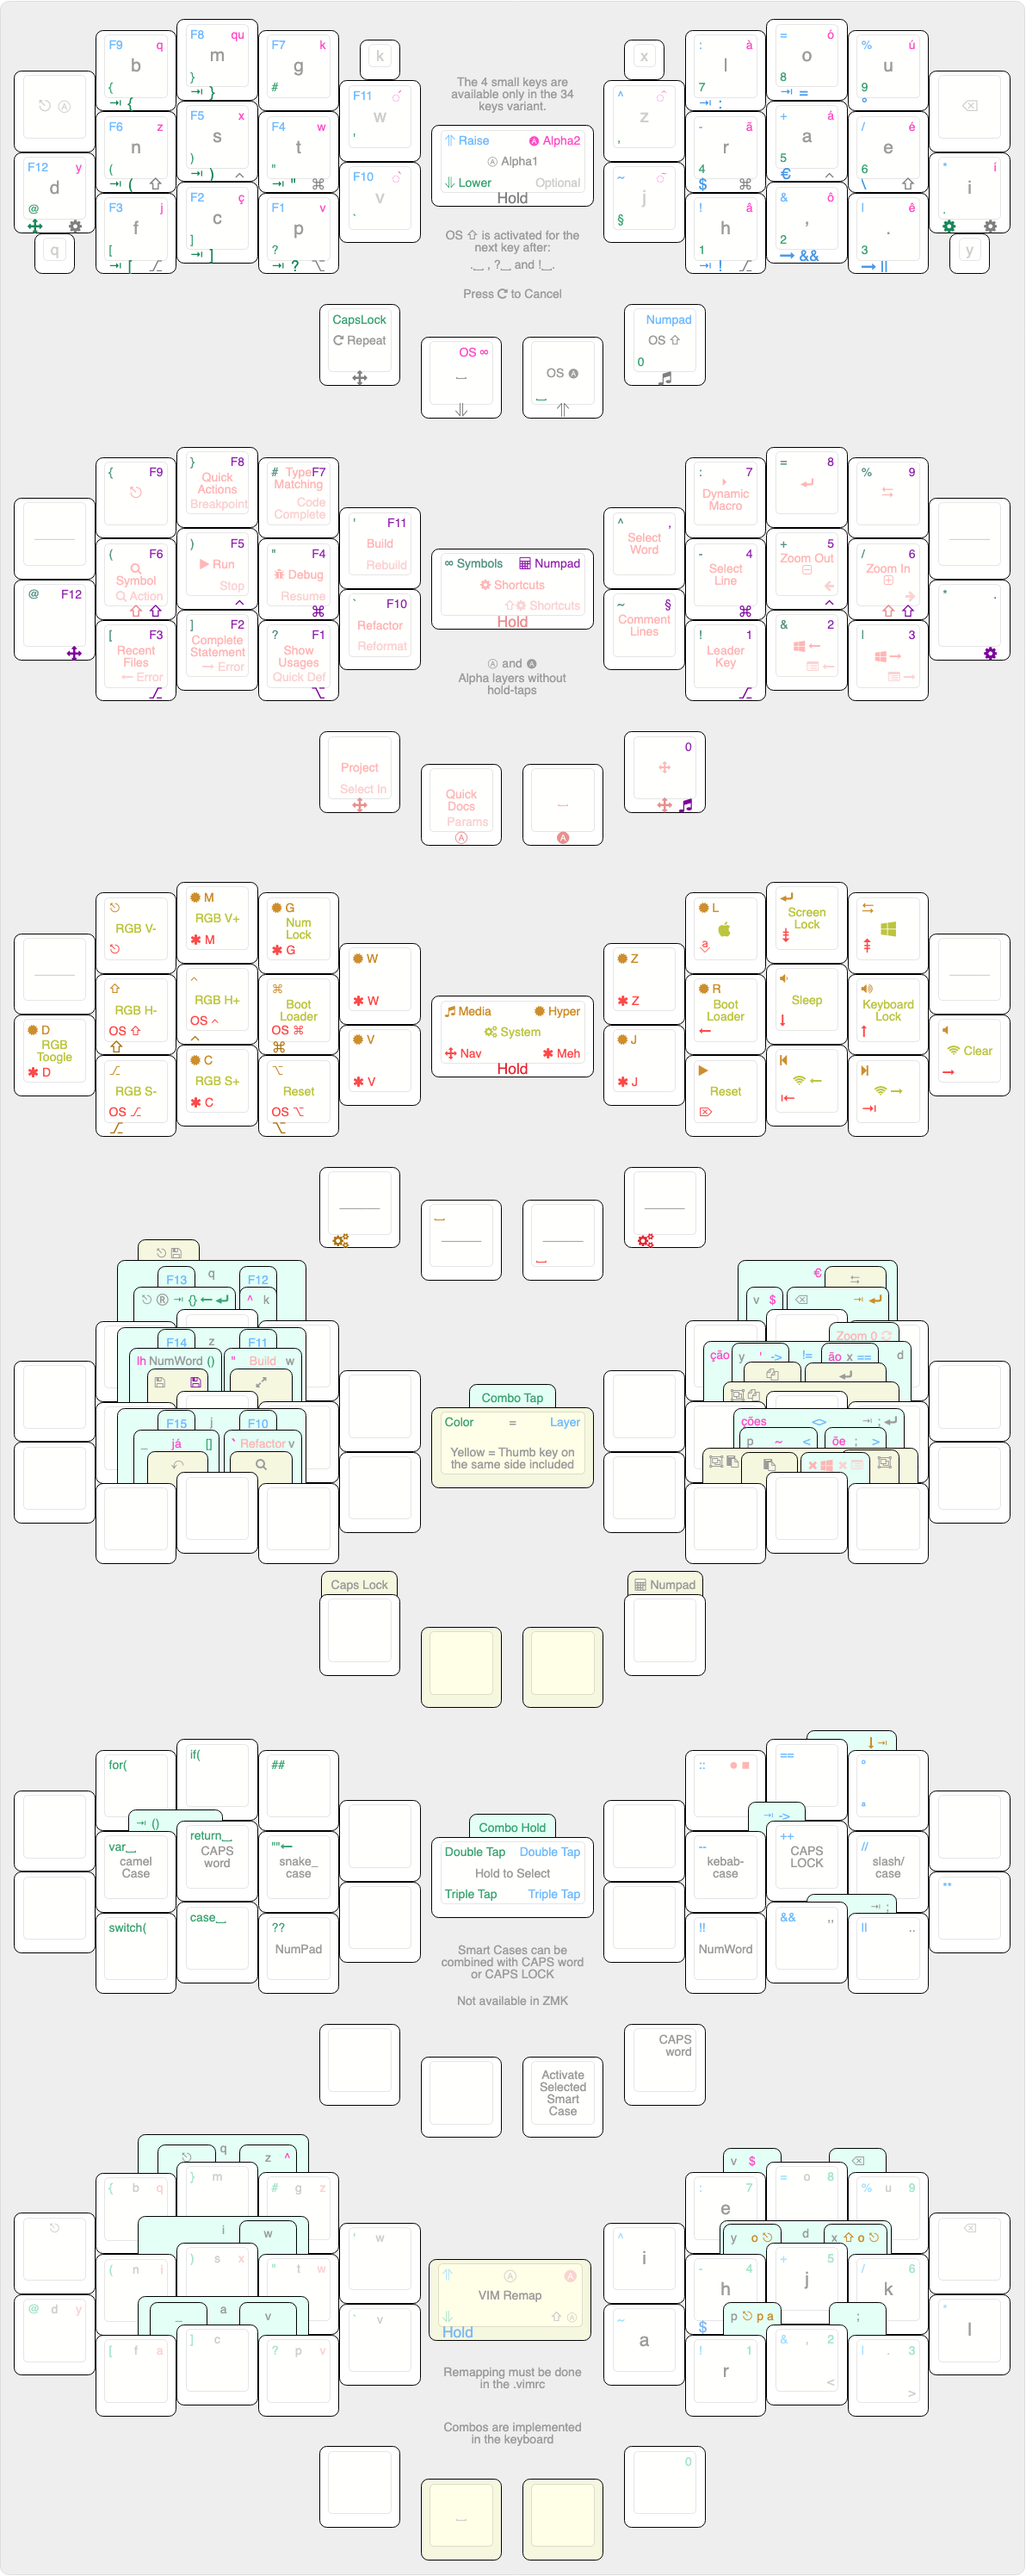
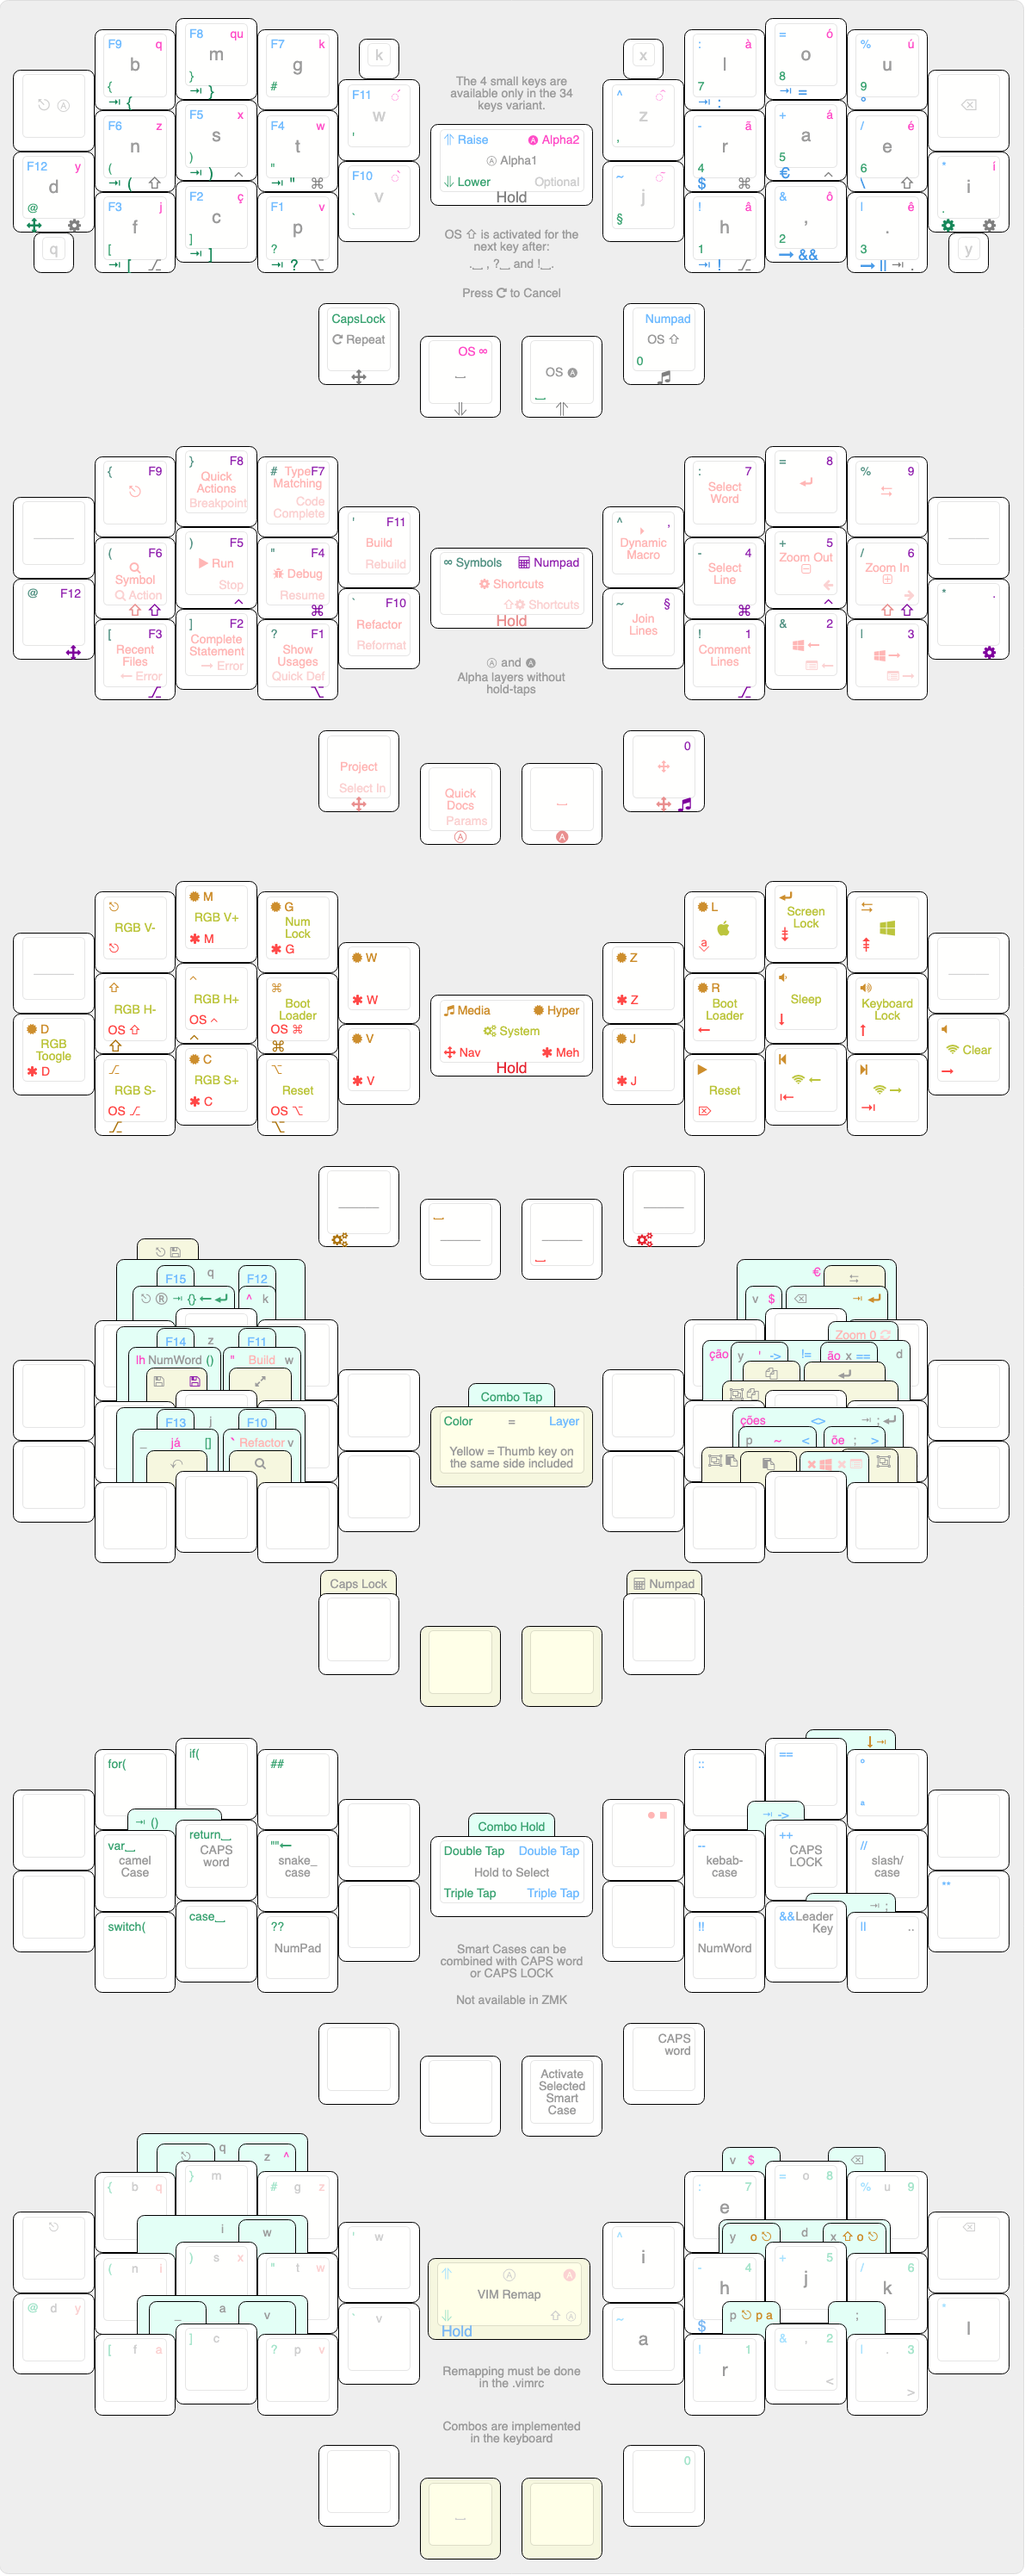
revert changes to shortcuts layer

diff --git a/src/qmk/users/rafaelromao/features/combos.c b/src/qmk/users/rafaelromao/features/combos.c
@@ -6,8 +6,8 @@
 
 const uint16_t PROGMEM l_num_f10_combo[] = {KC_F2, AL_F1, COMBO_END};
 const uint16_t PROGMEM l_num_f11_combo[] = {CT_F5, GU_F4, COMBO_END};
+const uint16_t PROGMEM l_num_f13_combo[] = {AL_F3, KC_F2, COMBO_END};
 const uint16_t PROGMEM l_num_f14_combo[] = {SF_F6, CT_F5, COMBO_END};
-const uint16_t PROGMEM l_num_f15_combo[] = {AL_F3, KC_F2, COMBO_END};
 const uint16_t PROGMEM l_num_esc_combo[] = {KC_F9, KC_F8, COMBO_END};
 const uint16_t PROGMEM l_num_sav_combo[] = {KC_SPC, SF_F6, CT_F5, COMBO_END};
 const uint16_t PROGMEM r_num_ent_combo[] = {RAI_SPC, CT_5, SF_6, COMBO_END};
@@ -24,9 +24,9 @@ const uint16_t PROGMEM r_low_sco_combo[] = {KC_2, KC_3, COMBO_END};
 const uint16_t PROGMEM l_rai_f10_combo[]  = {KC_F2, KC_F1, COMBO_END};
 const uint16_t PROGMEM l_rai_f11_combo[]  = {KC_F4, KC_F5, COMBO_END};
 const uint16_t PROGMEM l_rai_f12_combo[]  = {KC_F7, KC_F8, COMBO_END};
-const uint16_t PROGMEM l_rai_f13_combo[]  = {KC_F8, KC_F9, COMBO_END};
+const uint16_t PROGMEM l_rai_f13_combo[]  = {KC_F2, KC_F3, COMBO_END};
 const uint16_t PROGMEM l_rai_f14_combo[]  = {KC_F5, KC_F6, COMBO_END};
-const uint16_t PROGMEM l_rai_f15_combo[]  = {KC_F2, KC_F3, COMBO_END};
+const uint16_t PROGMEM l_rai_f15_combo[]  = {KC_F8, KC_F9, COMBO_END};
 const uint16_t PROGMEM r_rai_lt_combo[]   = {TD_EXLM, TD_AND, COMBO_END};
 const uint16_t PROGMEM r_rai_gt_combo[]   = {TD_AND, TD_OR, COMBO_END};
 const uint16_t PROGMEM r_rai_ltgt_combo[] = {TD_EXLM, TD_AND, TD_OR, COMBO_END};
@@ -53,12 +53,6 @@ const uint16_t PROGMEM l_sho_bui_combo[] = {MC_RUN, MC_DBUG, COMBO_END};
 const uint16_t PROGMEM l_sho_ref_combo[] = {MC_COMP, MC_FIUS, COMBO_END};
 const uint16_t PROGMEM r_sho_z0r_combo[] = {MC_MODM, SF_MODP, COMBO_END};
 const uint16_t PROGMEM r_sho_clo_combo[] = {MC_SWLE, MC_SWRI, COMBO_END};
-const uint16_t PROGMEM r_sho_sew_combo[] = {MC_SELL, MC_MODM, COMBO_END};
-#ifndef SAVE_MEMORY
-const uint16_t PROGMEM r_sho_com_combo[] = {QK_LEAD, MC_SWLE, COMBO_END};
-#else
-const uint16_t PROGMEM r_sho_com_combo[] = {XXXXXXX, MC_SWLE, COMBO_END};
-#endif
 
 // Alpha 2
 
@@ -113,6 +107,7 @@ const uint16_t PROGMEM r_rom_sal_combo[]  = {RAI_A2, TD_COMM, TD_DOT, COMBO_END}
 const uint16_t PROGMEM r_rom_sco_combo[]  = {TD_COMM, TD_DOT, COMBO_END};
 
 #ifndef SAVE_MEMORY
+const uint16_t PROGMEM r_acc_eur_combo[]  = {MC_GV_A, MC_SQ_O, MC_SQ_U, COMBO_END};
 const uint16_t PROGMEM l_low_cur_combo[]  = {TD_LCRB, TD_RCRB, COMBO_END};
 const uint16_t PROGMEM l_low_par_combo[]  = {TD_OPAR, TD_CPAR, COMBO_END};
 const uint16_t PROGMEM l_low_bra_combo[]  = {TD_OBR, TD_CBR, COMBO_END};
@@ -122,7 +117,6 @@ const uint16_t PROGMEM r_med_epa_combo[] = {KC_MPLY, KC_MPRV, COMBO_END};
 const uint16_t PROGMEM r_med_oes_combo[]  = {HYPR_R, KC_VOLD, COMBO_END};
 const uint16_t PROGMEM r_med_soe_combo[]  = {KC_VOLD, KC_VOLU, COMBO_END};
 const uint16_t PROGMEM r_rom_sent_combo[] = {RALTT_H, TD_COMM, TD_DOT, COMBO_END};
-const uint16_t PROGMEM r_acc_eur_combo[]  = {MC_GV_A, MC_SQ_O, MC_SQ_U, COMBO_END};
 #endif
 
 // Secret
@@ -131,35 +125,36 @@ const uint16_t PROGMEM secret_1_combo[] = {SEC_1, SEC_2, SEC_3, SEC_4, COMBO_END
 
 combo_t key_combos[] = {
 #ifndef SAVE_MEMORY
-    COMBO(r_med_epa_combo, MC_EPA),   COMBO(r_med_oes_combo, MC_OESC),  COMBO(r_med_soe_combo, MC_SOES),
-    COMBO(l_low_par_combo, MC_BRAC),  COMBO(r_rom_sent_combo, MC_SENT), COMBO(r_rom_scp_combo, MC_SCOP),
-    COMBO(r_rom_spa_combo, MC_SPAS),  COMBO(l_low_cur_combo, MC_CUR),   COMBO(l_low_par_combo, TD_PARN),
-    COMBO(r_acc_eur_combo, MC_EUR),
+    COMBO(r_med_epa_combo, MC_EPA),    COMBO(r_med_oes_combo, MC_OESC),  COMBO(r_med_soe_combo, MC_SOES),
+    COMBO(l_low_par_combo, MC_BRAC),   COMBO(r_rom_sent_combo, MC_SENT), COMBO(r_rom_scp_combo, MC_SCOP),
+    COMBO(r_rom_spa_combo, MC_SPAS),   COMBO(l_low_cur_combo, MC_CUR),   COMBO(r_acc_eur_combo, MC_EUR),
+    COMBO(l_low_par_combo, TD_PARN),
+
 #endif
-    COMBO(l_acc_esc_combo, MC_ESCC),  COMBO(l_nav_esc_combo, MC_ESCC),  COMBO(l_num_esc_combo, MC_ESCC),
-    COMBO(l_num_num_combo, MC_ESCC),  COMBO(l_num_f10_combo, KC_F10),   COMBO(l_num_f11_combo, KC_F11),
-    COMBO(l_num_f14_combo, KC_F14),   COMBO(l_num_f15_combo, KC_F15),   COMBO(l_num_sav_combo, MC_SAVE),
-    COMBO(l_rom_esc_combo, MC_ESCC),  COMBO(l_rom_esv_combo, MC_ESAV),  COMBO(l_rom_fin_combo, MC_FIND),
-    COMBO(l_rom_ful_combo, MC_FULL),  COMBO(l_rom_j_combo, KC_J),       COMBO(l_rom_k_combo, KC_K),
-    COMBO(l_rom_cap_combo, TG_CAPS),  COMBO(l_rom_num_combo, TG_NUMC),  COMBO(l_rom_q_combo, KC_Q),
-    COMBO(l_rom_v_combo, KC_V),       COMBO(l_rom_sav_combo, MC_SAVE),  COMBO(l_rom_und_combo, MC_UNDO),
-    COMBO(l_rom_usc_combo, KC_UNDS),  COMBO(l_rom_w_combo, KC_W),       COMBO(l_rom_z_combo, KC_Z),
-    COMBO(r_acc_ao_combo, MC_AO),     COMBO(r_acc_bsp_combo, KC_BSPC),  COMBO(r_acc_cao_combo, MC_CAO),
-    COMBO(r_acc_coes_combo, MC_COES), COMBO(r_acc_ja_combo, MC_JA),     COMBO(l_acc_lh_combo, MC_LH),
-    COMBO(l_acc_cir_combo, MC_CIRC),  COMBO(r_acc_til_combo, MC_TILD),  COMBO(r_acc_oe_combo, MC_OE),
-    COMBO(r_acc_squo_combo, MC_SQUO), COMBO(l_acc_dquo_combo, MC_DQUO), COMBO(l_acc_bti_combo, MC_BTIC),
-    COMBO(r_acc_dol_combo, KC_DLR),   COMBO(r_low_ent_combo, KC_ENT),   COMBO(r_low_sco_combo, TD_SCLE),
-    COMBO(r_sho_clo_combo, MC_CLOS),  COMBO(l_sho_bui_combo, MC_BUID),  COMBO(l_sho_ref_combo, MC_REFC),
-    COMBO(r_sho_sew_combo, MC_SELW),  COMBO(r_sho_com_combo, MC_COMT),  COMBO(r_sho_z0r_combo, MC_Z0R),
-    COMBO(r_med_ent_combo, TD_EENT),  COMBO(r_nav_bsp_combo, KC_BSPC),  COMBO(r_nav_ent_combo, KC_ENT),
-    COMBO(r_nav_cop_combo, MC_COPY),  COMBO(r_nav_pas_combo, MC_PAST),  COMBO(r_num_bsp_combo, KC_BSPC),
-    COMBO(r_num_ent_combo, KC_ENT),   COMBO(r_num_npd_combo, TG_NUM),   COMBO(r_num_tab_combo, KC_TAB),
-    COMBO(r_rai_bsp_combo, KC_BSPC),  COMBO(l_rai_f10_combo, KC_F10),   COMBO(l_rai_f11_combo, KC_F11),
-    COMBO(l_rai_f12_combo, KC_F12),   COMBO(l_rai_f13_combo, KC_F13),   COMBO(l_rai_f14_combo, KC_F14),
-    COMBO(l_rai_f15_combo, KC_F15),   COMBO(r_rai_deq_combo, MC_DEQ),   COMBO(r_rai_gt_combo, TD_GT),
-    COMBO(r_rai_lt_combo, TD_LT),     COMBO(r_rai_ltgt_combo, MC_LTGT), COMBO(r_rai_neq_combo, MC_NEQ),
-    COMBO(r_rai_sar_combo, TD_SARR),  COMBO(r_rom_bsp_combo, KC_BSPC),  COMBO(r_rom_cop_combo, MC_COPY),
-    COMBO(r_rom_d_combo, KC_D),       COMBO(r_rom_ent_combo, KC_ENT),   COMBO(r_rom_npd_combo, TG_NUM),
-    COMBO(r_rom_p_combo, KC_P),       COMBO(r_rom_pas_combo, MC_PAST),  COMBO(r_rom_sal_combo, MC_SELC),
-    COMBO(r_rom_sco_combo, TD_SCLE),  COMBO(r_rom_tab_combo, KC_TAB),   COMBO(r_rom_v_combo, KC_V),
-    COMBO(r_rom_x_combo, KC_X),       COMBO(r_rom_y_combo, KC_Y),       COMBO(secret_1_combo, MC_SECRET_1)};
+    COMBO(l_acc_esc_combo, MC_ESCC),   COMBO(l_nav_esc_combo, MC_ESCC),  COMBO(l_num_esc_combo, MC_ESCC),
+    COMBO(l_num_num_combo, MC_ESCC),   COMBO(l_num_f10_combo, KC_F10),   COMBO(l_num_f11_combo, KC_F11),
+    COMBO(l_num_f14_combo, KC_F14),    COMBO(l_num_f13_combo, KC_F13),   COMBO(l_num_sav_combo, MC_SAVE),
+    COMBO(l_rom_esc_combo, MC_ESCC),   COMBO(l_rom_esv_combo, MC_ESAV),  COMBO(l_rom_fin_combo, MC_FIND),
+    COMBO(l_rom_ful_combo, MC_FULL),   COMBO(l_rom_j_combo, KC_J),       COMBO(l_rom_k_combo, KC_K),
+    COMBO(l_rom_cap_combo, TG_CAPS),   COMBO(l_rom_num_combo, TG_NUMC),  COMBO(l_rom_q_combo, KC_Q),
+    COMBO(l_rom_v_combo, KC_V),        COMBO(l_rom_sav_combo, MC_SAVE),  COMBO(l_rom_und_combo, MC_UNDO),
+    COMBO(l_rom_usc_combo, KC_UNDS),   COMBO(l_rom_w_combo, KC_W),       COMBO(l_rom_z_combo, KC_Z),
+    COMBO(r_acc_ao_combo, MC_AO),      COMBO(r_acc_bsp_combo, KC_BSPC),  COMBO(r_acc_cao_combo, MC_CAO),
+    COMBO(r_acc_coes_combo, MC_COES),  COMBO(r_acc_ja_combo, MC_JA),     COMBO(l_acc_lh_combo, MC_LH),
+    COMBO(l_acc_cir_combo, MC_CIRC),   COMBO(r_acc_til_combo, MC_TILD),  COMBO(r_acc_oe_combo, MC_OE),
+    COMBO(r_acc_squo_combo, MC_SQUO),  COMBO(l_acc_dquo_combo, MC_DQUO), COMBO(l_acc_bti_combo, MC_BTIC),
+    COMBO(r_acc_dol_combo, KC_DLR),    COMBO(r_low_ent_combo, KC_ENT),   COMBO(r_low_sco_combo, TD_SCLE),
+    COMBO(r_sho_clo_combo, MC_CLOS),   COMBO(l_sho_bui_combo, MC_BUID),  COMBO(l_sho_ref_combo, MC_REFC),
+    COMBO(r_sho_z0r_combo, MC_Z0R),    COMBO(r_med_ent_combo, TD_EENT),  COMBO(r_nav_bsp_combo, KC_BSPC),
+    COMBO(r_nav_ent_combo, KC_ENT),    COMBO(r_nav_cop_combo, MC_COPY),  COMBO(r_nav_pas_combo, MC_PAST),
+    COMBO(r_num_bsp_combo, KC_BSPC),   COMBO(r_num_ent_combo, KC_ENT),   COMBO(r_num_npd_combo, TG_NUM),
+    COMBO(r_num_tab_combo, KC_TAB),    COMBO(r_rai_bsp_combo, KC_BSPC),  COMBO(l_rai_f10_combo, KC_F10),
+    COMBO(l_rai_f11_combo, KC_F11),    COMBO(l_rai_f12_combo, KC_F12),   COMBO(l_rai_f13_combo, KC_F13),
+    COMBO(l_rai_f14_combo, KC_F14),    COMBO(l_rai_f15_combo, KC_F15),   COMBO(r_rai_deq_combo, MC_DEQ),
+    COMBO(r_rai_gt_combo, TD_GT),      COMBO(r_rai_lt_combo, TD_LT),     COMBO(r_rai_ltgt_combo, MC_LTGT),
+    COMBO(r_rai_neq_combo, MC_NEQ),    COMBO(r_rai_sar_combo, TD_SARR),  COMBO(r_rom_bsp_combo, KC_BSPC),
+    COMBO(r_rom_cop_combo, MC_COPY),   COMBO(r_rom_d_combo, KC_D),       COMBO(r_rom_ent_combo, KC_ENT),
+    COMBO(r_rom_npd_combo, TG_NUM),    COMBO(r_rom_p_combo, KC_P),       COMBO(r_rom_pas_combo, MC_PAST),
+    COMBO(r_rom_sal_combo, MC_SELC),   COMBO(r_rom_sco_combo, TD_SCLE),  COMBO(r_rom_tab_combo, KC_TAB),
+    COMBO(r_rom_v_combo, KC_V),        COMBO(r_rom_x_combo, KC_X),       COMBO(r_rom_y_combo, KC_Y),
+    COMBO(secret_1_combo, MC_SECRET_1)};

diff --git a/src/qmk/users/rafaelromao/definitions/keymap_blocks.h b/src/qmk/users/rafaelromao/definitions/keymap_blocks.h
@@ -30,13 +30,9 @@
 #define           ______SHORTCUTS_L3___________________           MC_RECE , MC_COMP , MC_FIUS , MC_REFC
 #define                               _SHORTCUTS_L4____                               NAV_PRJ , NMO_DOC
 
-#define           ______SHORTCUTS_R1___________________           TD_MACR , MC_ENT  , MC_TAB  , _______
-#define ________________SHORTCUTS_R2___________________ MC_SELW , MC_SELL , MC_MODM , SF_MODP , XXXXXXX
-#ifndef SAVE_MEMORY
-#define ________________SHORTCUTS_R3_________           MC_COMT , QK_LEAD , MC_SWLE , MC_SWRI 
-#else
-#define ________________SHORTCUTS_R3_________           MC_COMT , XXXXXXX , MC_SWLE , MC_SWRI 
-#endif
+#define           ______SHORTCUTS_R1___________________           MC_SELW , MC_ENT  , MC_TAB  , _______
+#define ________________SHORTCUTS_R2___________________ TD_MACR , MC_SELL , MC_MODM , SF_MODP , XXXXXXX
+#define ________________SHORTCUTS_R3_________           MC_JOIN , MC_COMT , MC_SWLE , MC_SWRI 
 #define _SHORTCUTS_R4____                               ACT_SPC , TT_NAV
 
 #define ___________________NOMOD_L1__________           KC_ESC  , KC_B    , KC_M    , KC_G    

diff --git a/src/qmk/users/rafaelromao/features/tapdance.c b/src/qmk/users/rafaelromao/features/tapdance.c
@@ -458,9 +458,20 @@ void td_comm(tap_dance_state_t *state, void *user_data) {
             tap_code(KC_COMM);
             break;
         case TD_DOUBLE_SINGLE_TAP:
+            tap_code(KC_COMM);
+            tap_code(KC_COMM);
         case TD_DOUBLE_TAP:
+#ifndef SAVE_MEMORY
+            if (!is_shifted()) {
+                leader_start();
+            } else {
+                tap_code(KC_COMM);
+                tap_code(KC_COMM);
+            }
+#else
             tap_code(KC_COMM);
             tap_code(KC_COMM);
+#endif
             break;
         case TD_TRIPLE_TAP:
             tap_code(KC_COMM);

diff --git a/src/qmk/users/rafaelromao/features/macros.c b/src/qmk/users/rafaelromao/features/macros.c
@@ -105,6 +105,11 @@ process_record_result_t process_macro_keycode(uint16_t keycode, bool isOneShotSh
             disable_smart_case();
             return PROCESS_RECORD_RETURN_FALSE;
 #endif
+            // Join Lines
+
+        case MC_JOIN:
+            SEND_STRING(SS_TAP(X_END) SS_TAP(X_DEL));
+            return PROCESS_RECORD_RETURN_FALSE;
 
             // Euro sign
 

diff --git a/src/qmk/users/rafaelromao/definitions/keycodes.h b/src/qmk/users/rafaelromao/definitions/keycodes.h
@@ -99,7 +99,7 @@ enum {
     MC_QUIK, MC_AUCO, 
     MC_QDOC, MC_FSYM, MC_RUN, MC_DBUG, MC_BUID,
     MC_PROJ, MC_RECE, MC_COMP, MC_FIUS, MC_REFC,
-    MC_COMT, 
+    MC_COMT, MC_JOIN,
 
     // Begin macros used to write text
     STR_MACRO_START,
